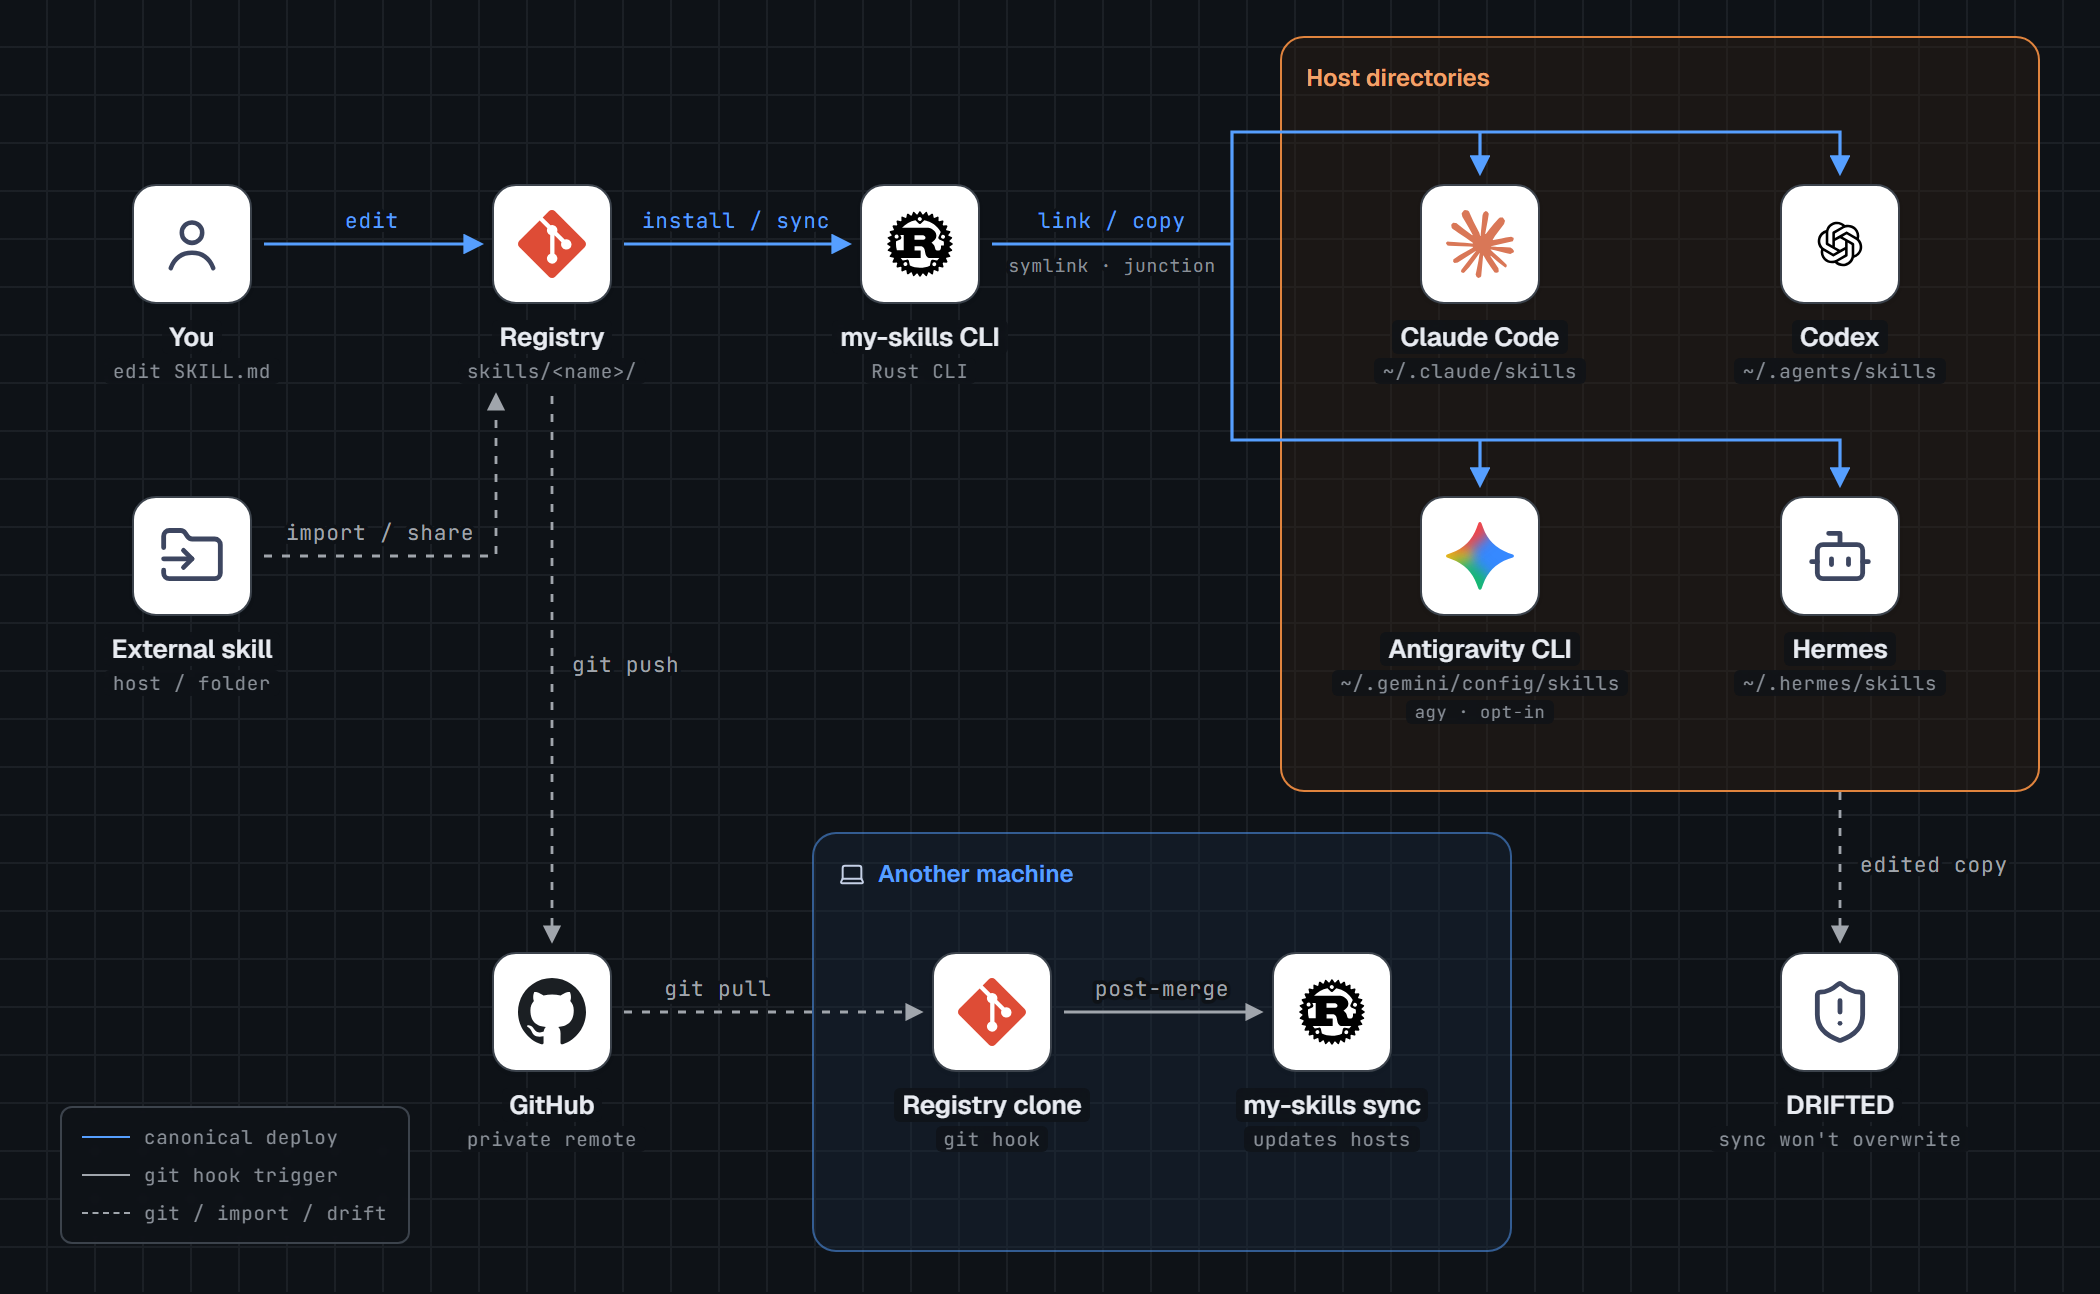
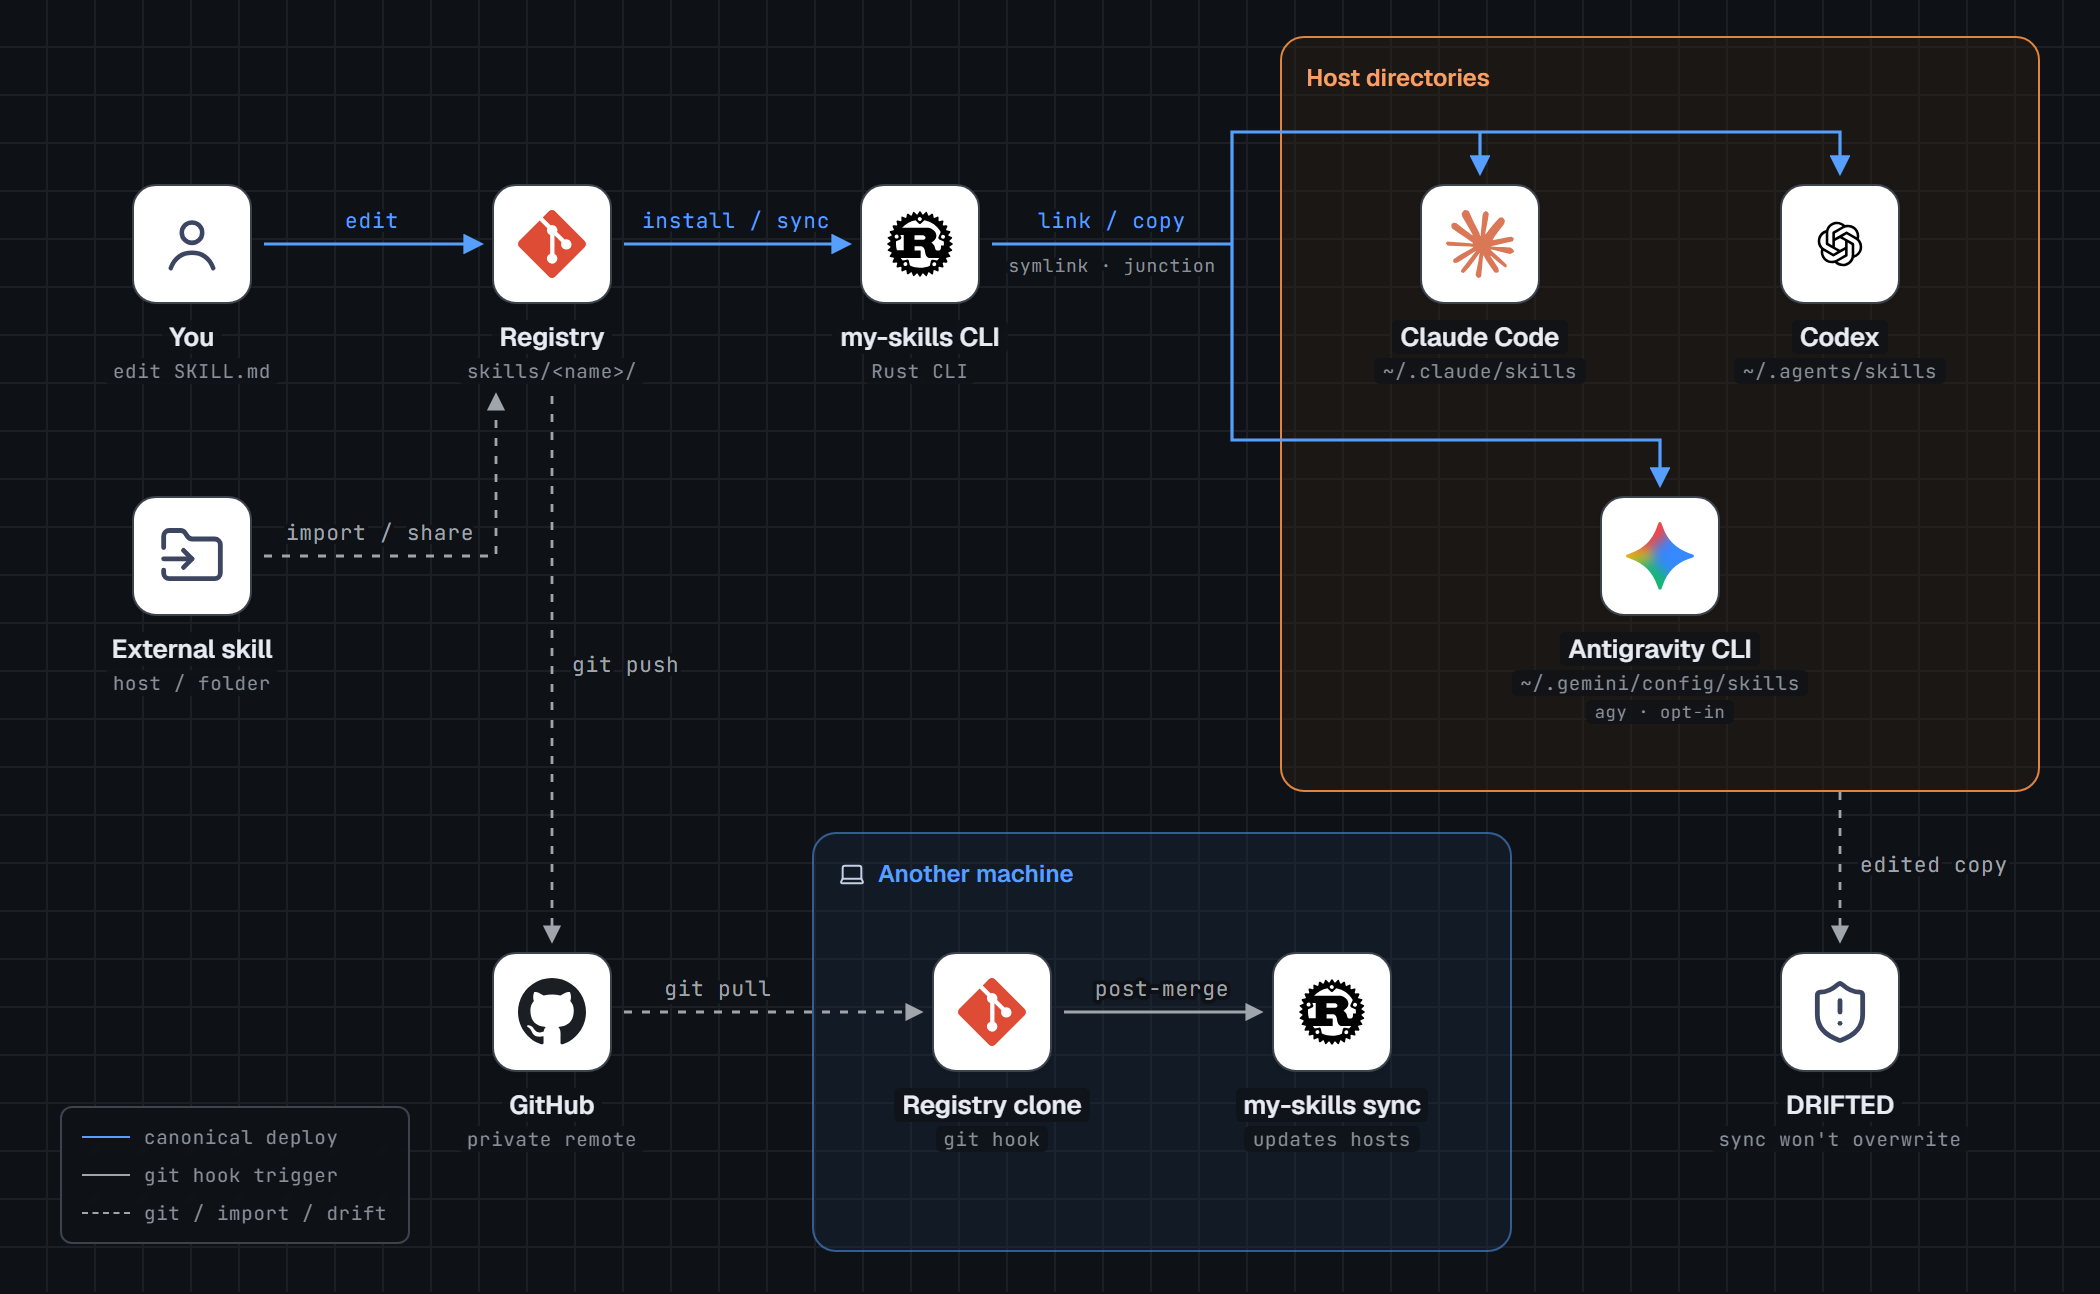
docs: add docs/reference.md and remove Hermes from architecture diagram

Changed region(s): [[0.65, 0.34, 0.9286, 0.5564]]

diff --git a/docs/reference.md b/docs/reference.md
@@ -1,0 +1,145 @@
+# my-skills Reference
+
+Detailed reference for commands, registry lookup, install modes, safety checks, machine-local data, and host-specific notes.
+
+## Commands
+
+| Command | What it does |
+| --- | --- |
+| `my-skills skills` | List registered skills (`--json`, `--host <HOST>`, `--enabled`, `--disabled`, `--with-status`). |
+| `my-skills status` | Show connection status for every skill and host (`--json`). |
+| `my-skills install [SKILL]` | Connect enabled skills to host folders (`--host <HOST>`, `--all`, `--mode link\|copy`, `--dry-run`, `--json`, `--skip-audit`, `--yes`). |
+| `my-skills sync [SKILL]` | Match host folders to `my-skills.toml` (your manifest) and remove unwanted managed installs (`--host <HOST>`, `--all`, `--check`, `--no-prune`, `--dry-run`, `--quiet`, `--skip-audit`, `--yes`). |
+| `my-skills uninstall [SKILL]` | Remove managed host connections without touching the source skill (`--host <HOST>`, `--dry-run`, `--yes`). |
+| `my-skills enable <SKILL>` / `disable <SKILL>` | Turn a registered skill on or off in `my-skills.toml` (`--dry-run`). |
+| `my-skills import <SOURCE>` | Copy an external skill folder into `skills/` and register it as disabled (`--enable`, `--force`, `--skip-audit`, `--dry-run`). |
+| `my-skills share --from <HOST> [SKILL]` | Promote a skill from a host folder into your registry (`--plan` / `--dry-run`, `--json`, `--enable`, `--disable`, `--force`, `--skip-audit`). |
+| `my-skills convert --to link\|copy [SKILL]` | Switch existing managed connections between link and copy (`--host <HOST>`, `--all`, `--dry-run`, `--yes`). |
+| `my-skills data-path <SKILL>` | Print a skill's machine-local data folder (`--create` to create it). |
+| `my-skills update` | Update the `my-skills` binary from GitHub Releases (`--check`, `--dry-run`, `--channel stable\|main`). |
+| `my-skills doctor` | Check your environment, hosts, active registry, Git hooks, and manifest (`--no-update-check`, `--json`). |
+
+Two small details to keep in mind:
+
+- `import` rejects source folders that contain symlinks so audits and copies cover the same file tree.
+- A bare `sync` checks disabled and unregistered skills too so it can remove old installs. Pass `--no-prune` to keep them, or `--check` to report changes without writing.
+
+## How my-skills finds your registry
+
+Most commands look for your registry in this order:
+
+1. The `MY_SKILLS_ROOT` environment variable, for a single-command override.
+2. A `my-skills.toml` file in the current folder or a parent folder, for that command only.
+3. The saved active registry recorded by `init-registry` or `set-root`.
+
+If you already have a saved active registry and run a command inside a different registry folder, `my-skills` uses the current folder for that one run and prints a note to stderr. It does not change your saved active registry.
+
+To switch your saved active registry permanently:
+
+```bash
+my-skills set-root /path/to/your/registry
+my-skills doctor
+```
+
+On a machine with no saved active registry yet, the first command run inside a registry saves that folder automatically so later commands work from anywhere. Dry runs (`--dry-run`) never save or change the active registry; they print what they would remember instead. Run `my-skills doctor` and check the `Registry:` line whenever you want to be sure which registry a command will use.
+
+## Link or copy
+
+New registries connect skills using links by default (symlinks on macOS and Linux, directory junctions on Windows). With a link, edits to `skills/<name>/` show up in every linked agent right away, and uninstalling removes only the link.
+
+When creating a new connection, `my-skills` picks `link` or `copy` in this order:
+
+1. `--mode link` or `--mode copy` passed to `install`.
+2. `install_mode` under `[targets.<host>]` in `my-skills.local.toml` or `my-skills.toml`.
+3. `install_mode` under `[defaults]` in `my-skills.toml`.
+
+Use `my-skills.local.toml` when one machine or agent needs copies while everything else stays on links:
+
+```toml
+[targets.agy]
+install_mode = "copy"
+```
+
+Existing connections keep the mode they were installed with. To switch existing connections, preview first and then convert:
+
+```bash
+my-skills convert --to link --dry-run
+my-skills convert --to link --yes
+```
+
+With `--host all`, `convert` skips any host that has an explicit `[targets.<host>] install_mode` different from `--to`. Passing an explicit `--host <name>` converts that host anyway.
+
+## Safety
+
+`my-skills` avoids silent overwrites and half-finished installs:
+
+- **Dry runs.** Pass `--dry-run` to preview changes without writing anything.
+- **Confirmation for multi-host writes.** Writing to more than one host asks for confirmation: review a dry run, then pass `--yes`. Installing only the built-in starter skills to default host paths is exempt.
+- **Existing folders are never overwritten.** If a host folder already contains an unmanaged directory at the destination path, `my-skills` stops instead of replacing it.
+- **Locally edited copies are protected.** If you edit a copied skill inside a host folder, `sync` flags it and leaves your edits untouched.
+- **Failed installs roll back.** Each write stages in a temporary folder and swaps into place. If the swap or saving the install state fails, `my-skills` rolls back so you can fix the cause and re-run cleanly.
+
+Install state is stored locally per machine (under `$XDG_STATE_HOME` or `~/.local/state/my-skills/`) and is never committed to Git.
+
+`status` and `sync` assign every `(skill, host)` pair one of these states:
+
+| State | Meaning |
+| --- | --- |
+| `FRESH` | The host install matches the source skill in your registry. |
+| `STALE` | The source skill changed after this copy was installed; `sync` can update it. |
+| `DRIFTED` | The host copy was edited locally; `sync` will not overwrite it. |
+| `CONFLICT` | Both the source skill and the host copy changed; resolve it manually. |
+| `MISSING` | The skill is registered for this host, but not installed yet. |
+| `UNMANAGED` | A folder already exists at the host path with no managed install record. |
+| `BROKEN` | A managed link points to a source skill folder that no longer exists. |
+| `UNSUPPORTED` | The skill's `hosts` list excludes this host. |
+
+When `sync` tries to connect a wanted skill, `DRIFTED`, `CONFLICT`, `UNMANAGED`, and `BROKEN` block that connection and make the command exit non-zero.
+
+## Machine-local data and secrets
+
+Keep accounts, tokens, machine paths, and local state out of your registry and out of Git.
+
+Skills that store local files use a shared, machine-local data directory resolved by `data-path`:
+
+```bash
+my-skills data-path cli-inventory
+my-skills data-path cli-inventory --create
+```
+
+For skills that need private settings, commit only a template such as `skills/<name>/config.example.json`, then copy it to the skill's data directory and edit the real `config.json` there:
+
+```bash
+config_dir="$(my-skills data-path my-jira --create)"
+cp skills/my-jira/config.example.json "$config_dir/config.json"
+$EDITOR "$config_dir/config.json"
+```
+
+Put machine-specific manifest overrides in `my-skills.local.toml` and any scratch or machine-only files in `local/`. Both are listed in `.gitignore` for new registries.
+
+## Antigravity CLI (agy)
+
+Antigravity CLI (`agy`) is opt-in and disabled by default in new registries. To enable it, set `[targets.agy]` in `my-skills.toml` and include `"agy"` in each skill's `hosts` list:
+
+```toml
+[targets.agy]
+enabled = true
+scope = "user"
+path = "~/.gemini/config/skills"
+```
+
+The project-scope path is `.agents/skills`.
+
+**Windows note:** `my-skills` creates directory junctions for links on Windows, and Antigravity CLI does not discover skills through junctions. Set `install_mode = "copy"` under `[targets.agy]` in `my-skills.local.toml` so `agy` uses copies while other hosts keep links. When verifying discovery on Windows, run `agy -p '/skills'` from PowerShell rather than Git Bash, because Git Bash rewrites `/skills` into a Windows path.
+
+**Versions checked:** Global-path discovery was verified on macOS with Antigravity CLI **1.2.16** and **1.5.15** (both folders and symlinks worked), and on Windows with **1.5.14** (folders worked; junctions were not discovered).
+
+## Hermes
+
+Hermes (`~/.hermes/skills`) is still supported, and disabled by default for new registries. To enable it, set `enabled = true` under `[targets.hermes]` in `my-skills.toml` (or `my-skills.local.toml`) and include `"hermes"` in each skill's `hosts` list.
+
+## Included starter skills
+
+- `cli-inventory` — Scans the CLI tools installed on this machine and saves a machine-local inventory you can read back quickly.
+- `my-skills` — Guides your agents through listing, importing, sharing, installing, and syncing skills with the CLI.
+- `my-jira` — Disabled-by-default Jira/Atlassian starter skill showing the machine-local `config.example.json` pattern.
